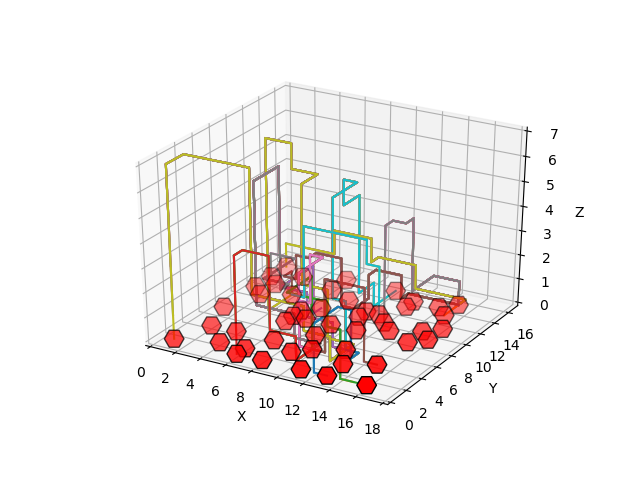
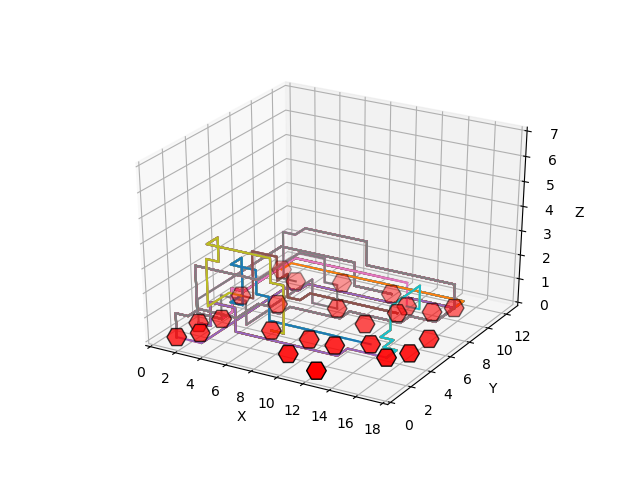
heuristic menu en readme

diff --git a/code/algorithms/hillclimber_astar.py b/code/algorithms/hillclimber_astar.py
@@ -4,28 +4,29 @@ import random
 
 
 class HillClimber():
-	""" Tries to improve A*-output, by taking a random wire and laying it again differently. """
+	""" Tries to improve current solution, by taking a random wire and laying it again differently. """
 
-	def __init__(self, chip, output_dict):
+	def __init__(self, chip, output_dict, heuristic):
 
+		self.chip = chip
+		self.heuristic = heuristic
 		self.output_dict = copy.deepcopy(output_dict)
-		self.run_hillclimber = self.run(chip)
+		self.run_hillclimber = self.run()
 
-
-	def mutate_random_wire(self, chip):
+	def mutate_random_wire(self):
 		""" Remove random wire and lay again by executing A*. """
 
 		random_wire = random.choice(list(self.output_dict.keys()))
 
 		for point in self.output_dict[random_wire]:
-			chip.grid[point[0]][point[1]][point[2]] = False
+			self.chip.grid[point[0]][point[1]][point[2]] = False
 
 		random_wire = [random_wire]
-		new_wire = execute_astar(random_wire, chip, False)
+		new_wire = execute_astar(random_wire, self.chip, self.heuristic, False)
 
 		return new_wire
 
-	def lay_unlaid_wires(self, chip):
+	def lay_unlaid_wires(self):
 		""" Try to lay unlaid wires in the new situation. """
 
 		unlaid_netlist = []
@@ -33,12 +34,12 @@ class HillClimber():
 		for net, wire in self.output_dict.items():
 			if len(wire) == 1:
 				unlaid_netlist.append(net)
-		new_unlaid_wires = execute_astar(unlaid_netlist, chip, False)
+		new_unlaid_wires = execute_astar(unlaid_netlist, self.chip, self.heuristic, False)
 
 		return new_unlaid_wires
 
 
-	def check_solution(self, chip, new_wire):
+	def check_solution(self, new_wire):
 		""" Check whether the new wire is shorter than previous versions. """
 
 		old_cost = 0
@@ -55,16 +56,16 @@ class HillClimber():
 				self.output_dict.update(new_wire)
 			else:
 				for point in self.output_dict[net]:
-					chip.grid[point[0]][point[1]][point[2]] = True
+					self.chip.grid[point[0]][point[1]][point[2]] = True
 
 
-	def run(self, chip):
+	def run(self):
 		""" Executes hillclimb algorithm. """
 
 		for wires in range(750):
-			new_unlaid_wires = self.lay_unlaid_wires(chip)
-			self.check_solution(chip, new_unlaid_wires)
-			new_wire = self.mutate_random_wire(chip)
-			self.check_solution(chip, new_wire)
+			new_unlaid_wires = self.lay_unlaid_wires()
+			self.check_solution(new_unlaid_wires)
+			new_wire = self.mutate_random_wire()
+			self.check_solution(new_wire)
 
 		return self.output_dict

diff --git a/main.py b/main.py
@@ -29,7 +29,7 @@ if __name__ == '__main__':
 			print("That chip does not exist.\n")
 
 	# create a Chip object for the chosen chip
-	chipinit = chip.Chip(chip_path)
+	chip = chip.Chip(chip_path)
 
 	# let user choose a netlist
 	while True:
@@ -56,46 +56,26 @@ if __name__ == '__main__':
 		else:
 			print("This algorithm does not exist.\n")
 
-	best_cost = 10000
-	best_count = 0
+	# create a Netlist object for the chosen chip and netlist combination
+	netlist = netlist.Netlist(netlist_path, chip.gates, req_sort)
 
-	loopcount = 0
-	while True:
-		if loopcount > 749:
-			break
-		loopcount += 1
+	# generate a dictionary containing the solution (wire) for each net
+	wires = wiring.Wiring(netlist.net_coords, chip, alg_req)
 
-		# create a Netlist object for the chosen chip and netlist combination
-		netlistloop = netlist.Netlist(netlist_path, chipinit.gates, req_sort)
+	# calculate cost of the solution
+	cost = wires.cost(wires.wire)
+	print(f"The cost of this solution is {cost}\n")
 
-		# generate a new chip for each loop
-		chiploop = chip.Chip(chip_path)
+	count = 0
+	for wire in wires.wire.values():
+		if len(wire) != 1:
+			count +=1
 
-		# generate a dictionary containing the solution (wire) for each net
-		wires = wiring.Wiring(netlistloop.net_coords, chiploop, alg_req)
+	print(f"The algorithm laid {count} wires out of {len(netlist.netlist)}.\n")
 
-		# calculate cost of the solution
-		cost = wires.cost(wires.wire)
+	# get the dimensions of the grid for the visual representation
+	x_dim = chip.get_x_dimension(chip.gates)
+	y_dim = chip.get_y_dimension(chip.gates)
 
-		print(f"The cost of this solution is {cost}\n")
-		count = 0
-		for wire in wires.wire.values():
-			if len(wire) != 1:
-				count +=1
-
-		if count > best_count or (cost < best_cost and count == best_count):
-			best_cost = cost
-
-			print(f"The algorithm laid {count} wires.\n")
-			best_count = count
-
-		# get the dimensions of the grid for the visual representation
-		x_dim = chiploop.get_x_dimension(chiploop.gates)
-		y_dim = chiploop.get_y_dimension(chiploop.gates)
-
-		# create visual representation of the solved chip
-		# visualise = matplot.visualise(chiploop.gates, wires.wire, x_dim, y_dim)
-		# break
-
-	print(f"The total_cost is {best_cost}.\n")
-	print(f"The total_count is {best_count}.\n")
+	# # create visual representation of the solved chip
+	# visualise = matplot.visualise(chip.gates, wires.wire, x_dim, y_dim)

diff --git a/code/algorithms/astar.py b/code/algorithms/astar.py
@@ -94,7 +94,7 @@ def make_neighbours(grid, parent, current, end):
 	return neighbours
 
 
-def astar(gates, grid, start, end, occurance_gate, netlist):
+def astar(gates, grid, start, end, occurance_gate, netlist, heuristic):
 	""" A* for connecting gates on a grid. """
 
 	Q = []
@@ -146,7 +146,7 @@ def astar(gates, grid, start, end, occurance_gate, netlist):
 	return [(0, 0, 0)]
 
 
-def execute_astar(netlist, chip, loopdieloop=False):
+def execute_astar(netlist, chip, heuristic, first_execution=True):
 	""" Execute astar function for all nets. """
 
 	grid = chip.grid
@@ -161,7 +161,7 @@ def execute_astar(netlist, chip, loopdieloop=False):
 
 	occurance_gate = Counter(gates_in_netlist)
 
-	if loopdieloop:
+	if first_execution:
 		# does user want loose_layering?
 		layering_input = input("Do you want equal distribution of wires over the layers? (y/n)\n").lower()
 		if layering_input == 'y' or layering_input == 'yes':
@@ -193,8 +193,8 @@ def execute_astar(netlist, chip, loopdieloop=False):
 								between = new_between
 								break
 
-					path_1 = astar(gates, grid, start, between, occurance_gate, netlist)
-					path_2 = astar(gates, grid, between, end, occurance_gate, netlist)
+					path_1 = astar(gates, grid, start, between, occurance_gate, netlist, heuristic)
+					path_2 = astar(gates, grid, between, end, occurance_gate, netlist, heuristic)
 
 					# if half of the wire was not laid, remove the other half as well
 					if path_1 == [(0, 0, 0)] or path_2 == [(0, 0, 0)]:
@@ -206,7 +206,7 @@ def execute_astar(netlist, chip, loopdieloop=False):
 						output_dict[net] = path_1 + path_2
 
 				else:
-					path = astar(gates, grid, start, end, occurance_gate, netlist)
+					path = astar(gates, grid, start, end, occurance_gate, netlist, heuristic)
 					output_dict[net] = path
 
 	else:
@@ -214,7 +214,7 @@ def execute_astar(netlist, chip, loopdieloop=False):
 		for net in netlist:
 			start = net[0]
 			end = net[1]
-			path = astar(gates, grid, start, end, occurance_gate, netlist)
+			path = astar(gates, grid, start, end, occurance_gate, netlist, heuristic)
 			output_dict[net] = path
 
 	return output_dict

diff --git a/code/classes/wiring.py b/code/classes/wiring.py
@@ -13,11 +13,15 @@ class Wiring():
 
 		algorithm, optimisation = self.choose_alg(alg_req)
 
-		self.wire = algorithm(self.netlist, self.chip)
+		if algorithm == execute_astar:
+			heuristic = self.choose_heuristic()
+			self.wire = algorithm(self.netlist, self.chip, heuristic)
+		else:
+			self.wire = algorithm(self.netlist, self.chip)
 
 		if optimisation == 'y' or optimisation == 'yes':
 						
-			output_dict = HillClimber(chip, self.wire)
+			output_dict = HillClimber(chip, self.wire, heuristic)
 			self.wire = output_dict.run_hillclimber
 
 		self.output(self.wire)
@@ -28,12 +32,25 @@ class Wiring():
 
 		if alg_req == 'xyz_move':
 			algorithm = xyz_wire
+			optimisation_input = None
 		elif alg_req == 'astar':
 			algorithm = execute_astar
-		optimisation_input = input("Do you want to optimise the result with hillclimber? (y/n)\n").lower()
-		optimisation_input = False
+			optimisation_input = input("Do you want to optimise the result with hillclimber? (y/n)\n").lower()
 
 		return algorithm, optimisation_input
+
+
+	def choose_heuristic(self):
+		""" Make user choose an heuristic. """
+
+		while True:
+			heuristic = input("Which heuristic do you want to use? (manhattan_distance, distance_to_gate, loose_cables)\n").lower()
+			if heuristic == 'manhattan_distance' or heuristic == 'distance_to_gate' or heuristic == 'loose_cables':
+				break
+			else:
+				print("This is not an option.\n")
+
+		return heuristic
 
 
 	def cost(self, output_dict):

diff --git a/code/algorithms/xyz_move.py b/code/algorithms/xyz_move.py
@@ -1,4 +1,5 @@
 from code.algorithms.xyz_astar import *
+from code.algorithms.hillclimber_astar import HillClimber
 
 
 def xyz_wire(netlist, chip):
@@ -68,8 +69,24 @@ def xyz_wire(netlist, chip):
 	optimisation_input = input("Do you want to optimise the xyz_move result with A*? (y/n) \n").lower()
 
 	if optimisation_input == 'y' or optimisation_input == 'yes':
+
+		while True:
+			heuristic = input("Which heuristic do you want to use? (manhattan_distance, distance_to_gate, loose_cables)\n").lower()
+			if heuristic == 'manhattan_distance' or heuristic == 'distance_to_gate' or heuristic == 'loose_cables':
+				break
+			else:
+				print("This is not an option.\n")
+
 		stuck, stuck_wires = find_point_stuck(output_dict, unsolved_wire)
-		new_wires = change_wires(stuck, stuck_wires, chip, output_dict)
+		new_wires = change_wires(stuck, stuck_wires, chip, output_dict, heuristic)
+
+		optimisation = input("Do you want to optimise the result with hillclimber? (y/n)\n").lower()
+
+		if optimisation == 'y' or optimisation == 'yes':
+						
+			output_dict = HillClimber(chip, new_wires, heuristic)
+			new_wires = output_dict.run_hillclimber
+
 		return new_wires
 
 	return output_dict

diff --git a/code/algorithms/xyz_astar.py b/code/algorithms/xyz_astar.py
@@ -30,7 +30,7 @@ def find_point_stuck(output_dict, unsolved_wire):
 	return stuck_point, stuck_wires
 
 
-def change_wires(stuck_points, stuck_wires, chip, output_dict):
+def change_wires(stuck_points, stuck_wires, chip, output_dict, heuristic):
 	""" Lays the remaining points of the wires that got stuck, with the use of A*. """
 
 	new_output_dict = {}
@@ -39,7 +39,7 @@ def change_wires(stuck_points, stuck_wires, chip, output_dict):
 
 		new_netlist = [(point, net[1])]
 
-		new_wires = execute_astar(new_netlist, chip, loopdieloop=False)
+		new_wires = execute_astar(new_netlist, chip, heuristic, False)
 
 		# merge old part of wire with new part of wire if A* was succesfull
 		if len(next(iter(new_wires.values()))) > 1:

diff --git a/README.md b/README.md
@@ -16,41 +16,43 @@ De aanpak van de verschillende algoritmen is duidelijk beschreven in de README.
 Het is na lezen van de README duidelijk hoe de resultaten te reproduceren zijn, via een interface (command line), argumenten die meegegeven kunnen worden voor de verschillende functionaliteiten/algoritmen, of bijvoorbeeld een duidelijke uitleg welke file te runnen om welk resultaat te krijgen.
 #
 
-### Case uitleg:
+### Uitleg van de case:
 
-* Gates in een grid verbinden. Welke gates verbonden moeten worden staat vast in een netlist. Je wil het liefst de snelste weg vinden van gate A naar gate B, zodat je de kosten zo laag mogelijk houdt. Elke stap heeft een kosten van 1. Wanneer een wire niet gelegd kan worden, worden daar extra kosten voor in rekening gebracht.
-* Wires mogen elkaar niet kruisen/ over dezelfde lijntje heen gaan/ door gates heen gaan.
+Bij chips & circuits is het de bedoeling gates op een chip te verbinden met zo kort mogelijke kabels, die elkaar en de gates niet kruisen.  Welke gates verbonden moeten worden staat vast in een netlist. De chip wordt weergegeven als grid met de x- en y-dimensies zo dat er één extra rand om de buitenste gates om ligt. Er kan in de z-richting zeven lagen worden uitgebreid, om meer kabels te kunnen leggen. Kabels mogen alleen via de gridlijnen bewegen. Elke stap tussen coördinaten kost 1. Wanneer een kabel niet gelegd kan worden, worden daar extra kosten voor in rekening gebracht.
+
 
 <img src="doc/grid_uitleg.PNG" alt="grid_uitleg" width="400px">
 
-*Voorbeeld grid. Deze gates moeten met elkaar verbonden worden.*
-
+*Figuur 1) Voorbeeldchip. Deze gates moeten met elkaar verbonden worden.*
 
 <img src="doc/test.png" alt="test plaatje" width="400px">
 
-*Foto van test netlist, waarbij de gates met elkaar verbonden zijn met de kleinste kosten (20)*
+*Figuur 2) Voorbeeldnetlist, waarbij de gates met elkaar verbonden zijn met de laagste kosten (20)*
 
-* Deze gates kunnen door middel van x en y bewegingen met elkaar verbonden worden. De wire beweegt dan steeds dichter naar zijn target gate toe. Maar LET OP! Probleem
+
+Het voorbeeld in Figuur 2 is makkelijk op te lossen met 2D-bewegingen. Het korste pad op een othogonaal grid heet de manhattan distance. In Figuur 1 is te zien dat dit snel verkeerd kan gaan; kabels zouden moeten kruisen bij enkel 2D-bewegingen naar hun doel. Dit probleem is in Figuur 3 weergegeven.
+
 
 <img src="doc/probleem_plaatje.png" alt="probleem plaatje" width="400px">
 
-*Visualisatie van het probleem wanneer je alleen in de x- en y-richting mag bewegen.*
+*Figuur 3) Visualisatie van het probleem wanneer alleen in de x- en y-richting bew0gen mag worden.*
 
-* In de bovenstaande afbeelding is te zien dat de 2 lege gates niet met elkaar verbonden kunnen worden door alleen in de x- en y-richting te bewegen (manhattan distacnce).
-* Om dit op te lossen maken we gebruik van extra lagen, zodat wires ook in de z-richting kunnen bewegen.
+
+Om meer gates met elkaar te kunnen verbinden kunnen extra lagen in de z-richting worden toegevoegd, maximaal zeven. Figuur 4 laat zien hoe in de z-richting bewogen kan worden, waardoor kruising voorkomen wordt.
+
 
 <img src="doc/oplossing_probleem.png" alt="oplossing voor het probleem" width="400px">
 
-*Wires kunnen ook in de z-richting bewegen, waardoor ze andere wires niet hoeven te kruisen.*
+*Figuur 4) Kabels kunnen ook in de z-richting bewegen, waardoor ze andere kabels niet hoeven te kruisen.*
 
+Figuur 4 is relatief eenvoudig opgelost met deze maatregel, maar de aanpak van een chip zoals Figuur 1 vereist meer maatregelen. In Figuur 5 is diezelfde chip te zien waarbij gebruik wordt gemaakt van meerdere lagen. Toch is hier pas zestig procent van de te leggen kabels gelegd. 
 
-* Dit ziet er allemaal nog eenvoudig uit, maar er zijn grotere grids, met meer gates die allemaal met elkaar verbonden moeten worden.
 
 <img src="doc/60procent.png" alt="60procent" width="400px">
 
-*In deze afbeelding zijn maar 60 procent van de gates met elkaar verbonden. De overige 40 procent van de te verbinden gates lopen ergens vast waardoor verbinden niet meer lukt.*
+*Figuur 5) In deze afbeelding is slechts zestig procent van de te leggen kabels gelegd. De overige veertig procent van de kabels loopt ergens vast, waardoor verbinden niet meer lukt.*
 
-### Hoe kunnen we onze code verbeteren?
+### Ordening netlist
 
 * Een andere ordening: most_common vooraan, zodat die niet ingebouwd kan worden. Gates kunnen met maximaal 5 andere gates verbonden worden. Om ervoor te zorgen dat de gates die zoveel verbindingen moeten leggen afgesneden worden plaatsten we deze vooraan de netlist, waardoor deze verbindingen alseerst gelegd worden.
 * Er kan ook gesorteerd worden op "longest_first". Hierbij worden de gates die het verst van elkaar afliggen en met elkaar verbonden moeten worden als eerst in de netlist geplaatst. Deze hebben de meeste ruimte nodig en hebben de meeste kans om vast te lopen/ ingesloten te worden wanneer ze later nog gelegd moeten worden.
